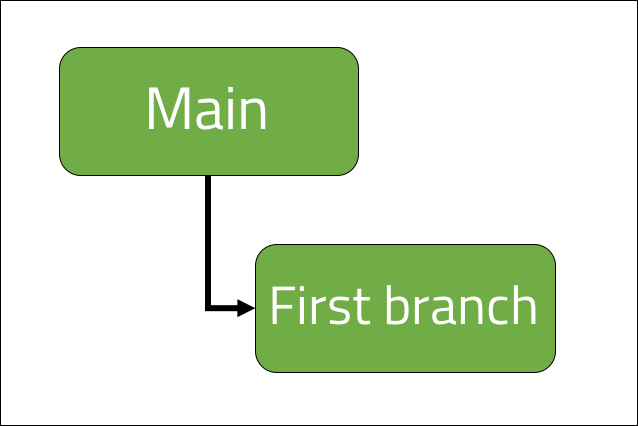
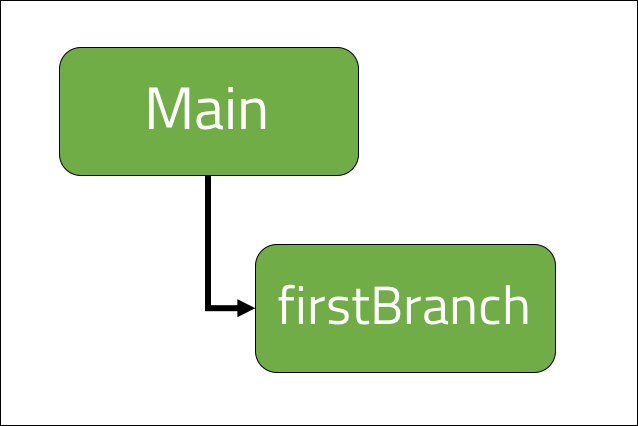
post 17 first draft

Changed region(s): [[0.4169, 0.6714, 0.8636, 0.7629]]

diff --git a/src/blogInProgress/017_Git.md b/src/blogInProgress/017_Git.md
@@ -11,18 +11,18 @@ tags:
 ---
 <br>
 <strong>Key Takeaways</strong><br>
-&#8226; The .<br>
-&#8226; The .<br>
-&#8226; The.<br>
-
-
-
+&#8226; Understand how to store and manage files using GitHub.<br>
+&#8226; Use Git flows to manage branches and make requests for the branches to be included in the main branch.<br>
+&#8226; Understand how you can obtain the latest updates from the main branch into the local repository.<br>
 
 <br>
 <h4>What is Git and version control?</h4>
 <p>
+Git is a distributed version-control system that enables you to manage your code and updates in a centralised repository.
+Git stores snapshots of the source code and allows code to be branched for updates.
+Rather than making updates directly to the code itself, you can make a copy to be played with and then merge it when all the unit tests are passing.
 
-difference between remote and local
+Git stores your repository in a remote location on the internet. You can interact with the repository by connecting your local machine to the remote repository.
 
 ![Remote and local copies](../../src/images/017_remoteAndLocal.png)
 
@@ -126,18 +126,58 @@ The clone of the repository will be the main branch. You can then extend your ow
 Branching is important with version control as it allows a controlled copy of the code to be practiced upon.
 Branching allows us to make changes to a controlled environment and also allows a rudimentary control of events for publishing and reviewing updates to the code (more on pull requests later).
 </p>
+
+
+
 <br>
 <h4>Branching to make changes</h4>
+<p>
+Before we can create a branch from the current main repository, we need to create a working copy that is linked to the current repository. For this, we use <i>git fork</i>.<br>
+Git fork allows you to make updates to the code without affecting the current working copy. Forking is the first part of 4 steps to update an existing source code:<br>
+1. (If you do not own the central repository) Fork the repository from the remote central location to the remote personal location. 
+2. Clone the forked repository from the remote personal location to the local location
+3. Apply a fix or update
+4. Submit a pull request for the update to be included in the remote central location. 
+</p>
+<p>
+I will first create a fork of the repository by selecting "Fork" on the GitHub repository page.
+
+![Fork Repo](../../src/images/017_fork.png)
+
+</p>
+<p>
+The Forked repository will now exist in your own GitHub remote account. Select the repository and copy the URL that appears under the "Code" tab. 
+
+</p>
+
+![Clone Repo](../../src/images/017_clone.png)
+
+<p>
+In the command line, navigate to the directory where you would like to store the cloned repository and use the command line to create a copy of the forked repository:
+
+```
+git clone <forked repository URL>
+```
+</p>
+
+![Fork Clone diagram](../../src/images/017_forkClone.png)
+
+
 <p>
 To begin making a branch, perform the following command from your directory:
 </p>
 
 ```
-git branch -b "First branch"
+git checkout -b "firstBranch"
 ```
 
+You can see all the available branches by running the following command:
+
+```
+git branch -a
+```
 <p>
-A new branch has now been created called first branch.
+A new branch has now been created called firstBranch.
 
 ![First branch from main](../../src/images/017_firstBranch.png)
 
@@ -146,20 +186,20 @@ A new branch has now been created called first branch.
 In the command line, we are able to check the branch we are currently on with 'git status'
 </p>
 ```
-on branch main
+on branch firstBranch
 ```
 <p>
-The new branch can be accessed by using the following command:
+The main branch can be accessed by using the following command:
 </p>
 ```
-git checkout "First branch"
+git checkout main
 ```
 
 <p>
-The 'git status' command will now read as "on branch First branch"
+The 'git status' command will now read as "on branch main"
 </p>
 <p>
-The first branch will make a single update to the source code:
+We will navigate to the firstBranch again and apply a single update to the source code:
 
 ```java{numberLines:true}
 public class Application {
@@ -169,32 +209,60 @@ public class Application {
         System.out.println("Hello from the main branch");
         System.out.println("Hello from the first branch");
     }
-}
+}                                                                                                                                                                                                                                                 
 ```
 </p>
 <p>
 The first branch is updated using the following commands:<br>
 &#8226; git add .<br>
 &#8226; git commit -m "first branch print line"<br>
-&#8226; git push<br>
+</p>
+<p>
+The first branch now has an update that we would like to add to the main branch. You can see the differences between the two branches (main and firstBranch) by using the following command to switch between branches:
+
+```
+git checkout main
+```
+</p>
+
+<p>
+To submit the change to the main branch, we submit the following pull request to the main branch:
+```
+git push --set-upstream origin firstBranch
+```
+The firstBranch has not specified where it is pushing the latest update to. The upstream target is the origin (main) branch so we set the upstream branch as origin.
+As a result, the firstBranch has submitted a <i>pull request</i> to the main branch.
 </p>
 <br>
 <h4>Making a pull request</h4>
 <p>
+The upstream push from the firstBranch has created a new pull request in the main branch.
+The pull request can be reviewed in GitHub from the main repository page:
 
+![Pull request on main](../../src/images/017_pullRequest.png)
 
+The following page allows you to submit the pull request with comments to the maintainers of the main repository.
+
+![Pull Request review](../../src/images/017_pullRequestReview.png)
+
+If you are the owner of the repository, the pull request merge option will be seen as below after any conflicts are reviewed:
+
+![Pull Request review](../../src/images/017_mergePull.png)
 </p>
-
 
 <br>
 <h4>Updating branches with the latest change</h4>
 <p>
+The main branch from the application has now been updated with the additional line written from the firstBranch. Our local copy of the main branch has not reflected the  update, however.
+To obtain the latest update from the remote repository into the local repository, we use the following command:
 
-
+```
+git pull
+```
+<i>git pull</i> performs two actions:<br>
+First, git pull performs a <i>git fetch</i> command to download the latest commits, file, and references from the remote repository into the local repository.
+Second, git pull will integrate the new data into the working files.
 </p>
-
-
-
 <br>
 <h4>Conclusion</h4>
 <p>
